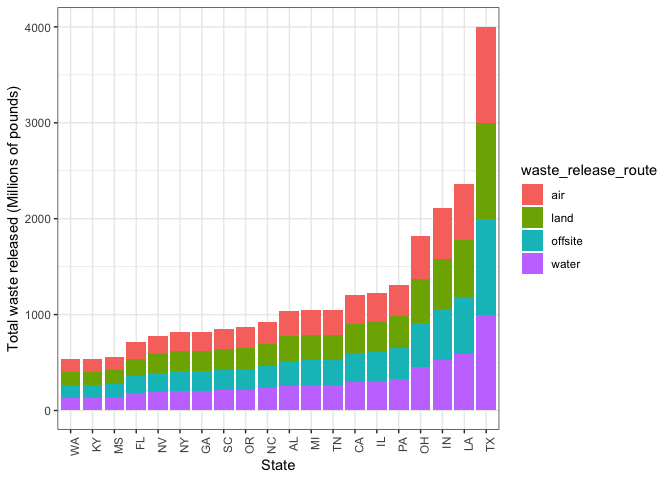
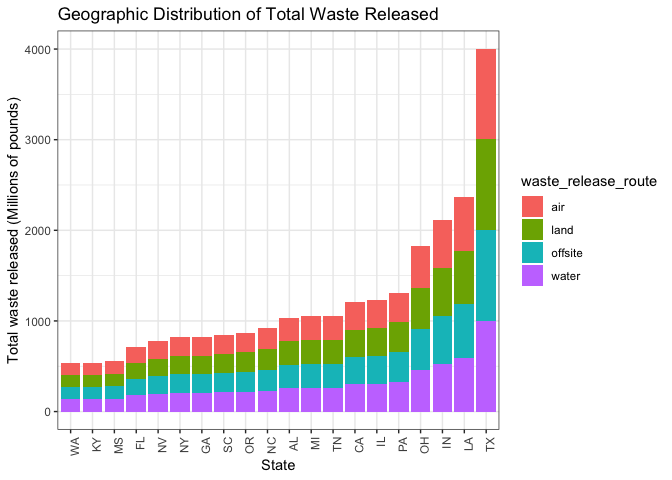
update titles

diff --git a/report_yw3236.md b/report_yw3236.md
@@ -198,6 +198,7 @@ tri_df %>%
   geom_bar(stat = "identity") + 
   viridis::scale_color_viridis() + 
   labs(
+    title = "Geographic Distribution of Total Waste Released",
     x = "State",
     y = "Total waste released (Millions of pounds)"
   ) + 
@@ -279,8 +280,9 @@ cancer_yearly %>%
   ggplot(aes(x = year, y = incidence, color = st)) + 
   geom_line() + 
   labs(
-    x = "Year",
-    y = "Cancer Incidence per 100,000 people"
+    title = "AML Cancer Incidence per 100,000 People Changes over Years",
+    x = "Years",
+    y = "AML Cancer Incidence per 100,000 People"
   ) + 
   theme_bw()
 ```
